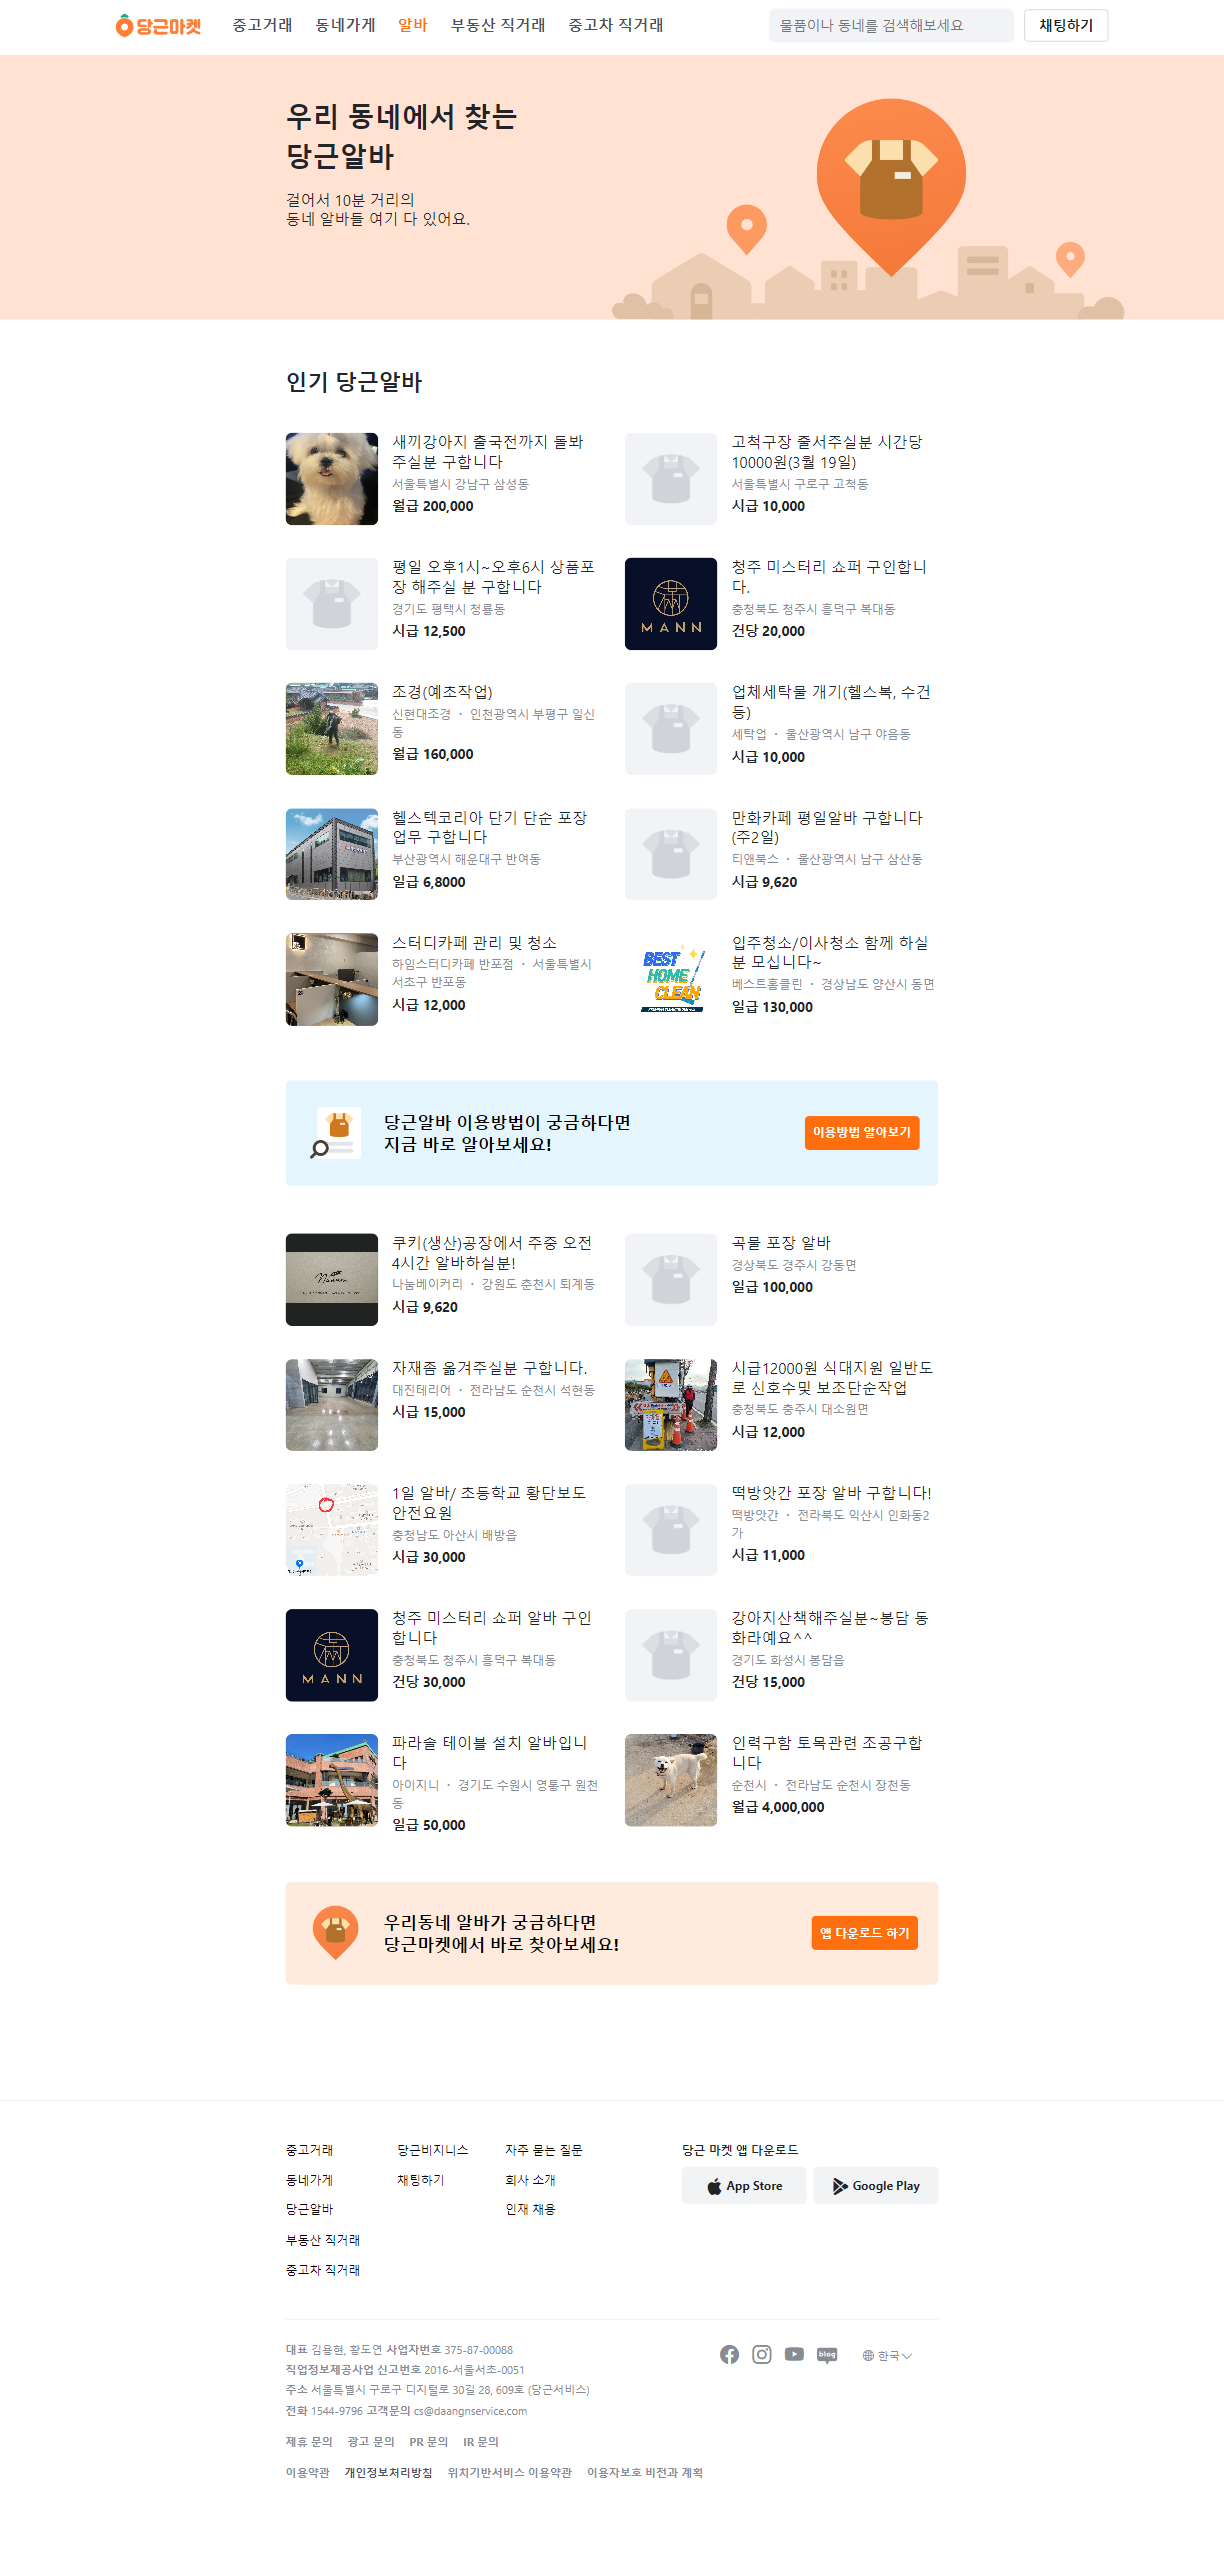
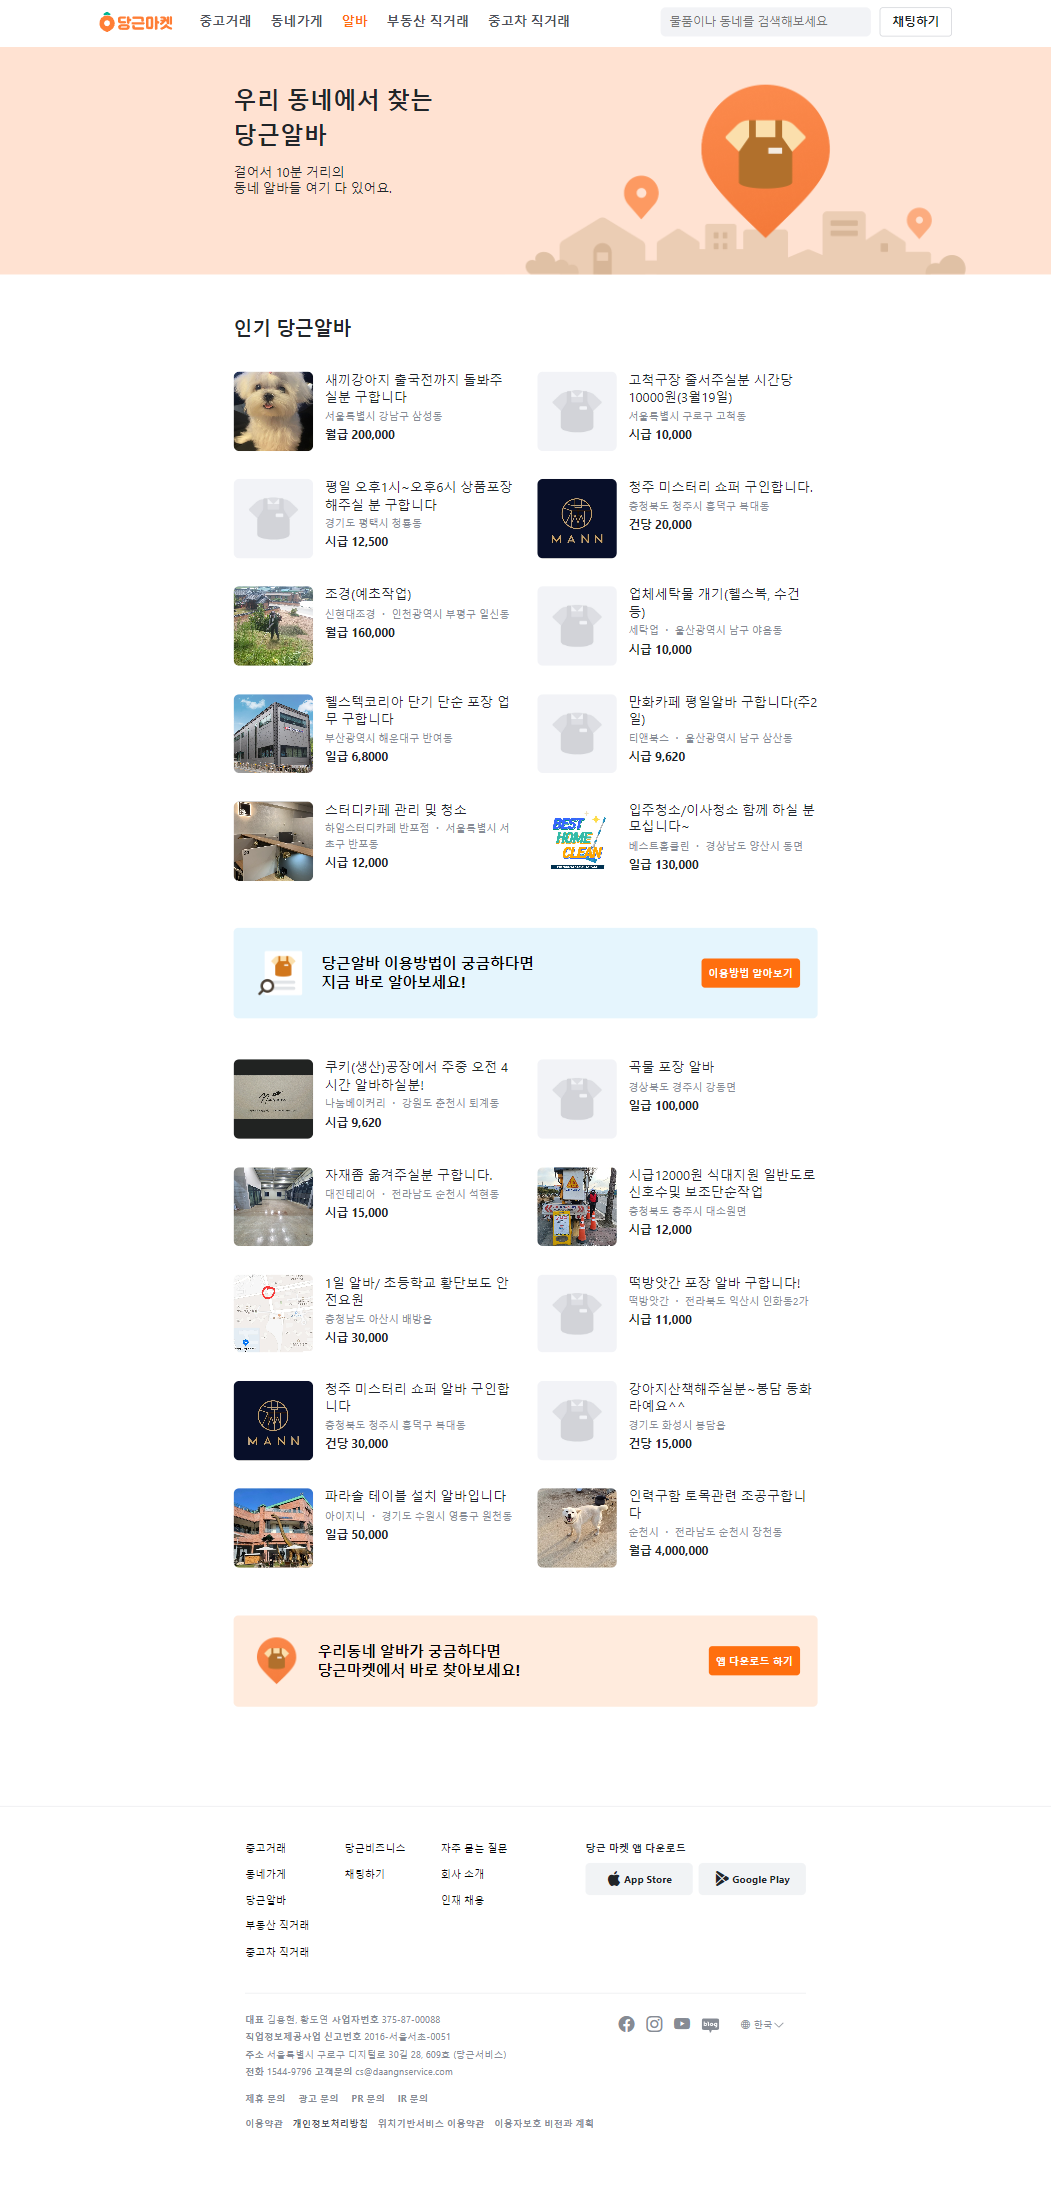
Add screenshot of jobs tablet and mobile page by rloldl

diff --git a/daangn/rloldl-c/README.md b/daangn/rloldl-c/README.md
@@ -29,8 +29,8 @@
 <h3>PC</h3>
 <img src="./img/jobs_pc.png">
 <h3>tablet</h3>
-
+<img src="./img/jobs_tablet.png">
 <h3>mobile</h3>
-
+<img src="./img/jobs_mobile.png">
 </div>
 </details>
